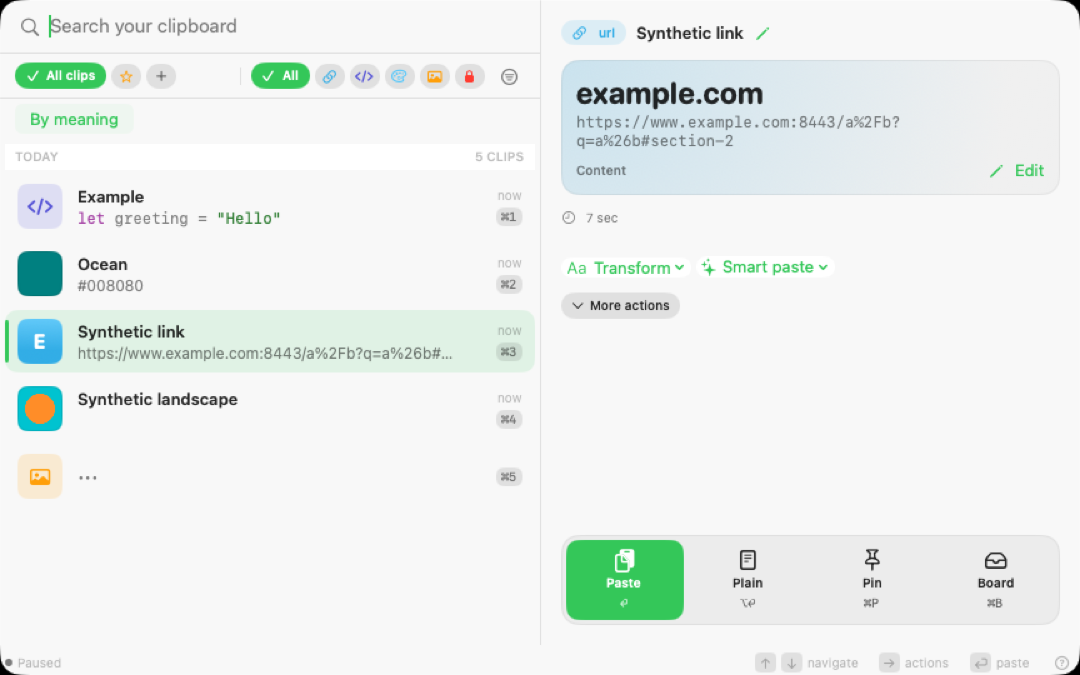
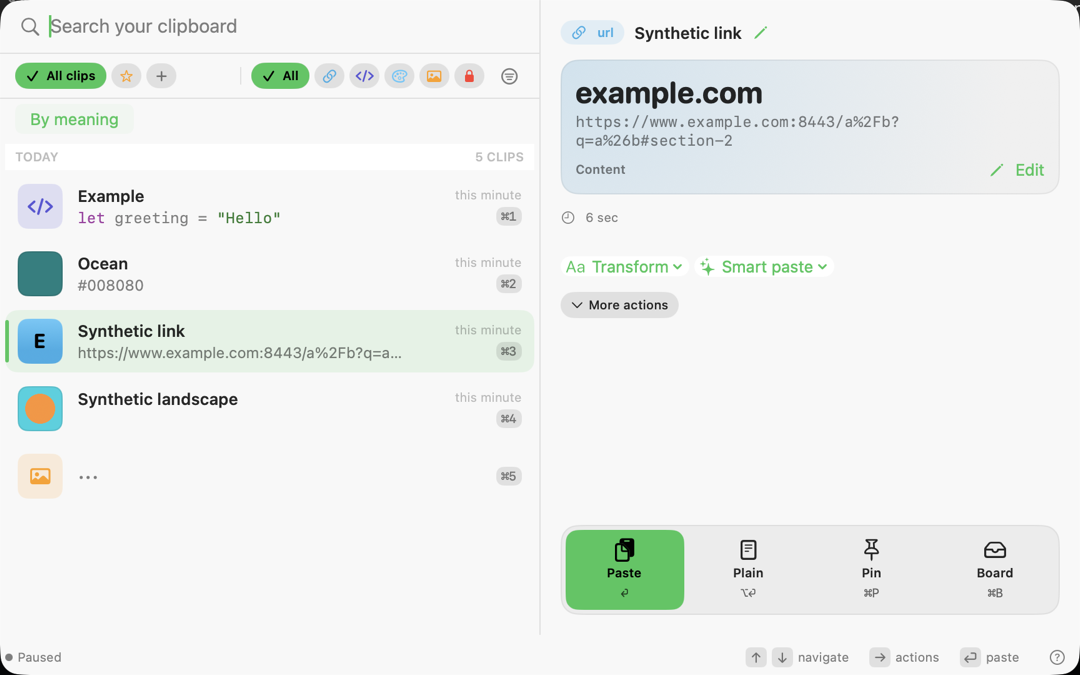
chore(release): finalize v0.10.0 for publication
v0.10.0 was prepared on 2026-10-09 but never tagged. Fold the unreleased
entries into it and date it today, and describe the changes merged since
the preparation: a Library that stays current while open, contrast and
keyboard fixes, sync and CSV hardening, and the SQLCipher and Sparkle
updates. Recapture the hero screenshot from ProductScreensUITests so it
shows the current panel. The version, build number and public status
are unchanged; v0.9.1 remains the published download until the tag.

diff --git a/site/index.html b/site/index.html
@@ -533,7 +533,7 @@
         <li data-i18n="rel.1"><b>Recetas de texto:</b> encadena hasta ocho pasos deterministas, revisa el resultado antes de copiar y restaura las recetas predeterminadas; se cifran en tu Mac y no se sincronizan.</li>
         <li data-i18n="rel.2"><b>Por significado, si lo activas:</b> una sección aparte de clips relacionados bajo tu búsqueda; los resultados normales no cambian.</li>
         <li data-i18n="rel.3"><b>Contexto seleccionado para IA:</b> Markdown revisado y acotado, o acceso de solo lectura a esos clips durante una hora; un clip que cambia deja de servirse.</li>
-        <li data-i18n="rel.4"><b>Un panel más tranquilo:</b> sólido por defecto, abre en el clip más nuevo con la búsqueda enfocada y guarda las acciones de desarrollador bajo Más acciones.</li>
+        <li data-i18n="rel.4"><b>Un panel más tranquilo:</b> sólido por defecto, abre en el clip más nuevo con la búsqueda enfocada y guarda las acciones de desarrollador bajo Más acciones; la Biblioteca se actualiza sola mientras está abierta.</li>
         <li data-i18n="rel.5"><b>Más privacidad:</b> los clips expirados desaparecen al instante, el acceso MCP solo a metadatos ya no busca en el contenido y la CLI se niega a guardar o copiar secretos a menos que se lo pidas.</li>
       </ul>
       <a class="btn btn-ghost" href="https://github.com/johnny4young/gancho/blob/main/CHANGELOG.md" data-i18n="rel.cta">Ver todo lo que incluye 0.10.0</a>
@@ -1239,7 +1239,7 @@
       "rel.1": "<b>Text recipes:</b> chain up to eight deterministic steps, review the result before copying and restore the default recipes; they are encrypted on your Mac and never synced.",
       "rel.2": "<b>By meaning, if you turn it on:</b> a separate section of related clips under your search; regular results are unchanged.",
       "rel.3": "<b>Selected context for AI:</b> reviewed, bounded Markdown, or read-only access to those clips for one hour; a clip that changes stops being served.",
-      "rel.4": "<b>A calmer panel:</b> solid by default, opens on the newest clip with search focused and keeps developer actions under More actions.",
+      "rel.4": "<b>A calmer panel:</b> solid by default, opens on the newest clip with search focused and keeps developer actions under More actions; the Library updates itself while it is open.",
       "rel.5": "<b>More privacy:</b> expired clips disappear at once, metadata-only MCP access no longer searches clip bodies and the CLI refuses to save or copy secrets unless asked.",
       "rel.cta": "See everything in 0.10.0",
       "rel.caption": "Preview of the macOS v0.10.0 candidate with synthetic fixtures; not evidence of a published release.",

diff --git a/docs/PRODUCT-TRUTH.md b/docs/PRODUCT-TRUTH.md
@@ -28,7 +28,7 @@ security, architecture, release notes, and App Store copy.
 | Batch panel workflow | `PanelSelection`, `DeletionCoordinator`, `ClipDragPayload` | macOS supports range or discontiguous selection, batch stack/board/delete actions with shared Undo, and a de-duplicated multi-file drag when every selected clip is a safe file reference | Selection, deletion, drag-payload, and focused macOS UI tests |
 | Panel display preferences | `PanelController`, `PanelDisplayPreferences`, macOS General Settings | The Mac panel is solid by default with an optional translucent Liquid Glass background, edge-resizable, offers a Compact/Standard/Large Panel size picker that shows the active preset, remembers manual geometry, and scales its text, tiles and dock glyphs with a persistent three-level preference | Display-preference unit tests, a macOS UI test that measures row height per level, and the persistence smoke |
 | Package topology | `Packages/GanchoKit/Package.swift` | One package exposes eight libraries plus the `gancho` CLI | `ReleaseMetadataTests`, `scripts/check-product-truth.sh` |
-| Current direct download | GitHub release `v0.9.1` and `docs/releases/v0.9.1.md` | The published build 18 requires macOS 15.4; a fresh direct install is Free and local-only until eligible Pro activation. Manual OCR, visual Library cards, saved filters, combined text, secure direct-channel Pro activation, outbound privacy, durable shares, sync receive/upload fixes, the redesigned Mac panel (one toolbar, hero peek with an action dock, motion behind Reduce Motion, optional ambient colour, ⌘G gallery), snippet drafts that survive Library refreshes, a Text size preference that scales the panel, and content-free diagnostics for two formerly silent sync failures are included. The unreleased v0.10.0 source adds text recipes, meaning suggestions, selected context, installed-pair translation, the solid newest-first panel and the review's privacy and sync hardening; it is not yet a published build | Published tag/assets and release record, checked separately from source-version and candidate QA gates |
+| Current direct download | GitHub release `v0.9.1` and `docs/releases/v0.9.1.md` | The published build 18 requires macOS 15.4; a fresh direct install is Free and local-only until eligible Pro activation. Manual OCR, visual Library cards, saved filters, combined text, secure direct-channel Pro activation, outbound privacy, durable shares, sync receive/upload fixes, the redesigned Mac panel (one toolbar, hero peek with an action dock, motion behind Reduce Motion, optional ambient colour, ⌘G gallery), snippet drafts that survive Library refreshes, a Text size preference that scales the panel, and content-free diagnostics for two formerly silent sync failures are included. The unreleased v0.10.0 source adds text recipes, meaning suggestions, selected context, installed-pair translation, the solid newest-first panel, a Library that stays current while open, and the review's privacy, sync, contrast and keyboard hardening; it is not yet a published build | Published tag/assets and release record, checked separately from source-version and candidate QA gates |
 | Direct-download artifact gate | Production entitlements, Developer ID profile validator, release workflow | A sync-capable DMG must embed a non-expired production CloudKit/Push profile whose capabilities match the final signed app; the tag fails if signing, notarization, profile validation, artifact QA, or Sparkle signing is missing | `validate-macos-release-profile.sh`, `qa-release.sh`, and signed artifact checks |
 | Direct-download sync entitlement | `SyncEnablement`, `LicenseActivationService`, `LicenseKeyPurchaseHandler`, public release configuration | Sync requires Pro. Activation, validation, revocation, and seat limits are delegated to Lemon Squeezy without embedding a payments secret. In the published v0.9.1 build, `shouldEnable` (`tier == .pro && iCloudAvailable && hasCloudKitEntitlement`) can turn on live CloudKit for an activated direct install; production schema compatibility and the signed two-Mac matrix remain pending after publication. | Sync enablement truth table, activation-service tests, clean-install activation, packaged-secret checks, and signed two-Mac matrix |
 | Cross-device confidence | Sync tests and completed development-build hardware smoke | The source sync path has passed real-device smoke; repeat the full two-device matrix with a usable entitlement on the signed, profile-backed v0.9.1 release before claiming verified convergence | Tests plus the manual release checklist |

diff --git a/CHANGELOG.md b/CHANGELOG.md
@@ -7,37 +7,7 @@ and release versions follow [Semantic Versioning](https://semver.org/spec/v2.0.0
 
 ## [Unreleased]
 
-### Changed
-
-- Update SQLCipher to 4.19.0 and Sparkle to 2.10.0. KeyboardShortcuts stays
-  at 3.0.1 because 3.1.0 repeats a shortcut pressed while a menu is open.
-
-### Fixed
-
-- Keep Library scopes, counts, and snippets current after confirmed mutations;
-  preserve loaded pages and drafts, and offer recovery when reads fail.
-- Reject stale iOS pages and superseded previews, thumbnails, and snippet
-  templates; retain kind filters when secure storage falls back to memory.
-- Improve accent contrast, icon hit areas, and accessible Settings and board
-  actions; keep long-template actions and the iOS Paste toolbar reachable.
-- Preserve transparency in eight-digit color previews and bound long-text
-  preview work without splitting composed characters.
-
-- Record a shortcut Gancho already uses again in Settings or onboarding,
-  instead of the recorder staying stuck waiting for input.
-
-- Import CSV records with CRLF line endings and preserve combining-mark text
-  and quoted newlines while retaining formula protection when exporting and
-  importing clips.
-
-- Refresh exact snippet keyword matches before pasting after a search
-  invalidation, while preserving the selected row and loaded pages for an
-  unchanged search.
-
-- Preserve queued iCloud deletions when an older upload conflict or automatic
-  retry finishes after the local deletion.
-
-## [0.10.0] - 2026-10-09
+## [0.10.0] - 2026-10-15
 
 ### Added
 
@@ -65,7 +35,48 @@ and release versions follow [Semantic Versioning](https://semver.org/spec/v2.0.0
 - Restore deleted default text recipes from the recipe editor without touching
   recipes you kept or edited.
 
+### Changed
+
+- Update SQLCipher to 4.19.0 and Sparkle to 2.10.0. KeyboardShortcuts stays
+  at 3.0.1 because 3.1.0 repeats a shortcut pressed while a menu is open.
+
 ### Fixed
+
+- Keep Library scopes, counts, and snippets current after confirmed mutations;
+  preserve loaded pages and drafts, and offer recovery when reads fail.
+
+- Reject stale iOS pages and superseded previews, thumbnails, and snippet
+  templates; retain kind filters when secure storage falls back to memory.
+
+- Improve accent contrast, icon hit areas, and accessible Settings and board
+  actions; keep long-template actions and the iOS Paste toolbar reachable.
+
+- Preserve transparency in eight-digit color previews and bound long-text
+  preview work without splitting composed characters.
+
+- Record a shortcut Gancho already uses again in Settings or onboarding,
+  instead of the recorder staying stuck waiting for input.
+
+- Import CSV records with CRLF line endings and preserve combining-mark text
+  and quoted newlines while retaining formula protection when exporting and
+  importing clips.
+
+- Refresh exact snippet keyword matches before pasting after a search
+  invalidation, while preserving the selected row and loaded pages for an
+  unchanged search.
+
+- Preserve queued iCloud deletions when an older upload conflict or automatic
+  retry finishes after the local deletion.
+
+- Scroll the history panel without redrawing every thumbnail, and copy without
+  re-indexing Spotlight or refreshing a closed Library each time.
+
+- Toggle several boards in a row with Return in the board picker, and keep the
+  ⌘/ shortcut hint in the footer's Keyboard shortcuts tooltip.
+
+- Never show a preview, thumbnail or snippet body that changed or became
+  protected while it was loading, and explain why a stale snippet suggestion
+  does not insert.
 
 - Keep a board you deleted gone while iCloud sync is still sending the
   deletion, instead of letting an incoming copy of the board, or a clip that

diff --git a/docs/releases/v0.10.0.md b/docs/releases/v0.10.0.md
@@ -4,7 +4,8 @@ Gancho 0.10.0 adds reviewed ways to reuse what you copied: text recipes,
 optional meaning suggestions, selected context for AI tools, and translation
 with the languages already installed on your Mac. The panel opens solid by
 default, starts on your newest clip, and keeps developer actions one click
-away. An app-wide review also tightens privacy, sync and keyboard handling.
+away. The Library stays current while it is open, and an app-wide review
+tightens privacy, sync, contrast and keyboard handling.
 
 ## Highlights
 
@@ -27,6 +28,13 @@ away. An app-wide review also tightens privacy, sync and keyboard handling.
   Translucent background brings the glass back), every open starts on the
   newest clip with the search field focused, arrows move without a cross-fade,
   and developer actions sit behind **More actions**, which is remembered.
+- **A Library and panel that keep up.** The open Library shows captures, pins,
+  board changes and edits made in the panel without reopening, keeps the pages
+  you already scrolled through, and offers Retry when a read fails. Scrolling
+  no longer redraws every thumbnail, and a copy no longer re-indexes Spotlight.
+  Text on accent-coloured buttons stays readable, icon buttons have larger
+  labelled targets, the board picker toggles several boards with Return, and a
+  snippet with many fields keeps Insert and Cancel visible at large text sizes.
 - **Privacy and sync hardening.** Expired clips disappear everywhere at once,
   metadata-only MCP access can no longer search clip bodies, deletions made
   while sync is off no longer return, images and semantic vectors are removed
@@ -34,12 +42,15 @@ away. An app-wide review also tightens privacy, sync and keyboard handling.
   unless you ask it to. A board you delete stays deleted while sync is still
   sending the deletion, clips that still list it are corrected on iCloud right
   away, a clip edited while its upload is prepared is sent with the text and
-  details of one edit, and credit cards are detected inside mixed text.
+  details of one edit, a queued deletion survives an older upload conflict or
+  automatic retry, a preview or thumbnail that becomes protected while it loads
+  is never shown, and credit cards are detected inside mixed text.
 - **Safer storage, backups and licensing.** A failed backup export never
   damages the previous backup, a malformed Keychain key fails safely instead of
   being replaced, store recovery sets aside the whole database generation
-  together, and a Pro license can be re-activated after signing out without
-  restarting Gancho.
+  together, a Pro license can be re-activated after signing out without
+  restarting Gancho, and CSV import keeps CRLF records, combining marks and
+  quoted newlines. SQLCipher moves to 4.19.0 and Sparkle to 2.10.0.
 
 See the complete
 [changelog](https://github.com/johnny4young/gancho/blob/main/CHANGELOG.md)

diff --git a/README.md b/README.md
@@ -22,8 +22,9 @@ requires macOS 15.4+ (build 18). Local history and manual OCR are Free; Pro
 activation through Lemon Squeezy is included. The on-device model tier requires
 macOS 26. The v0.10.0 source adds text recipes, off-by-default meaning
 suggestions, selected context for AI tools and translation with installed
-languages on macOS 26, opens a solid panel on the newest clip, and hardens
-privacy and sync; it is not yet a published build. See its
+languages on macOS 26, opens a solid panel on the newest clip, keeps the open
+Library current, and hardens privacy, sync, contrast and keyboard handling; it
+is not yet a published build. See its
 [release notes](docs/releases/v0.10.0.md).
 
 ![The Gancho panel, solid by default, with a link peek and developer actions collapsed](site/assets/v0.10.0-release.png)
